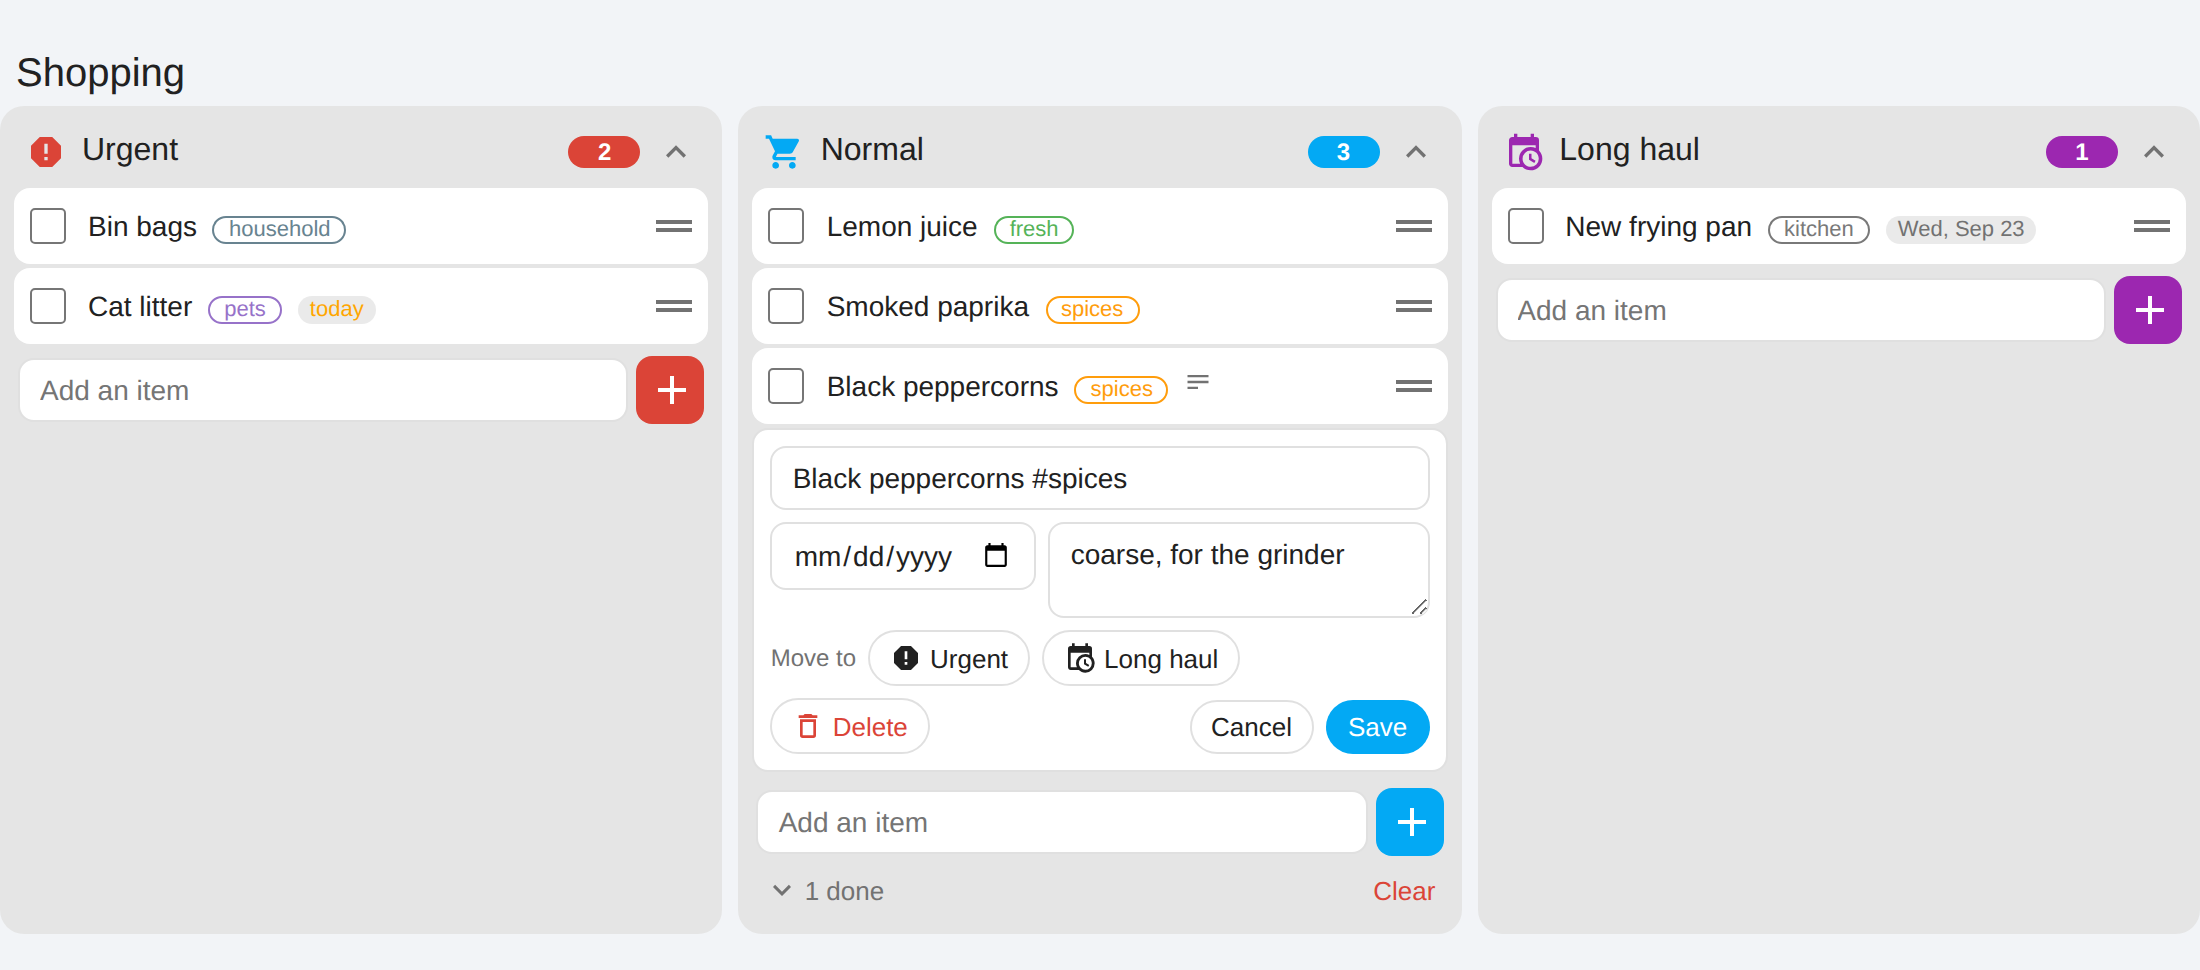
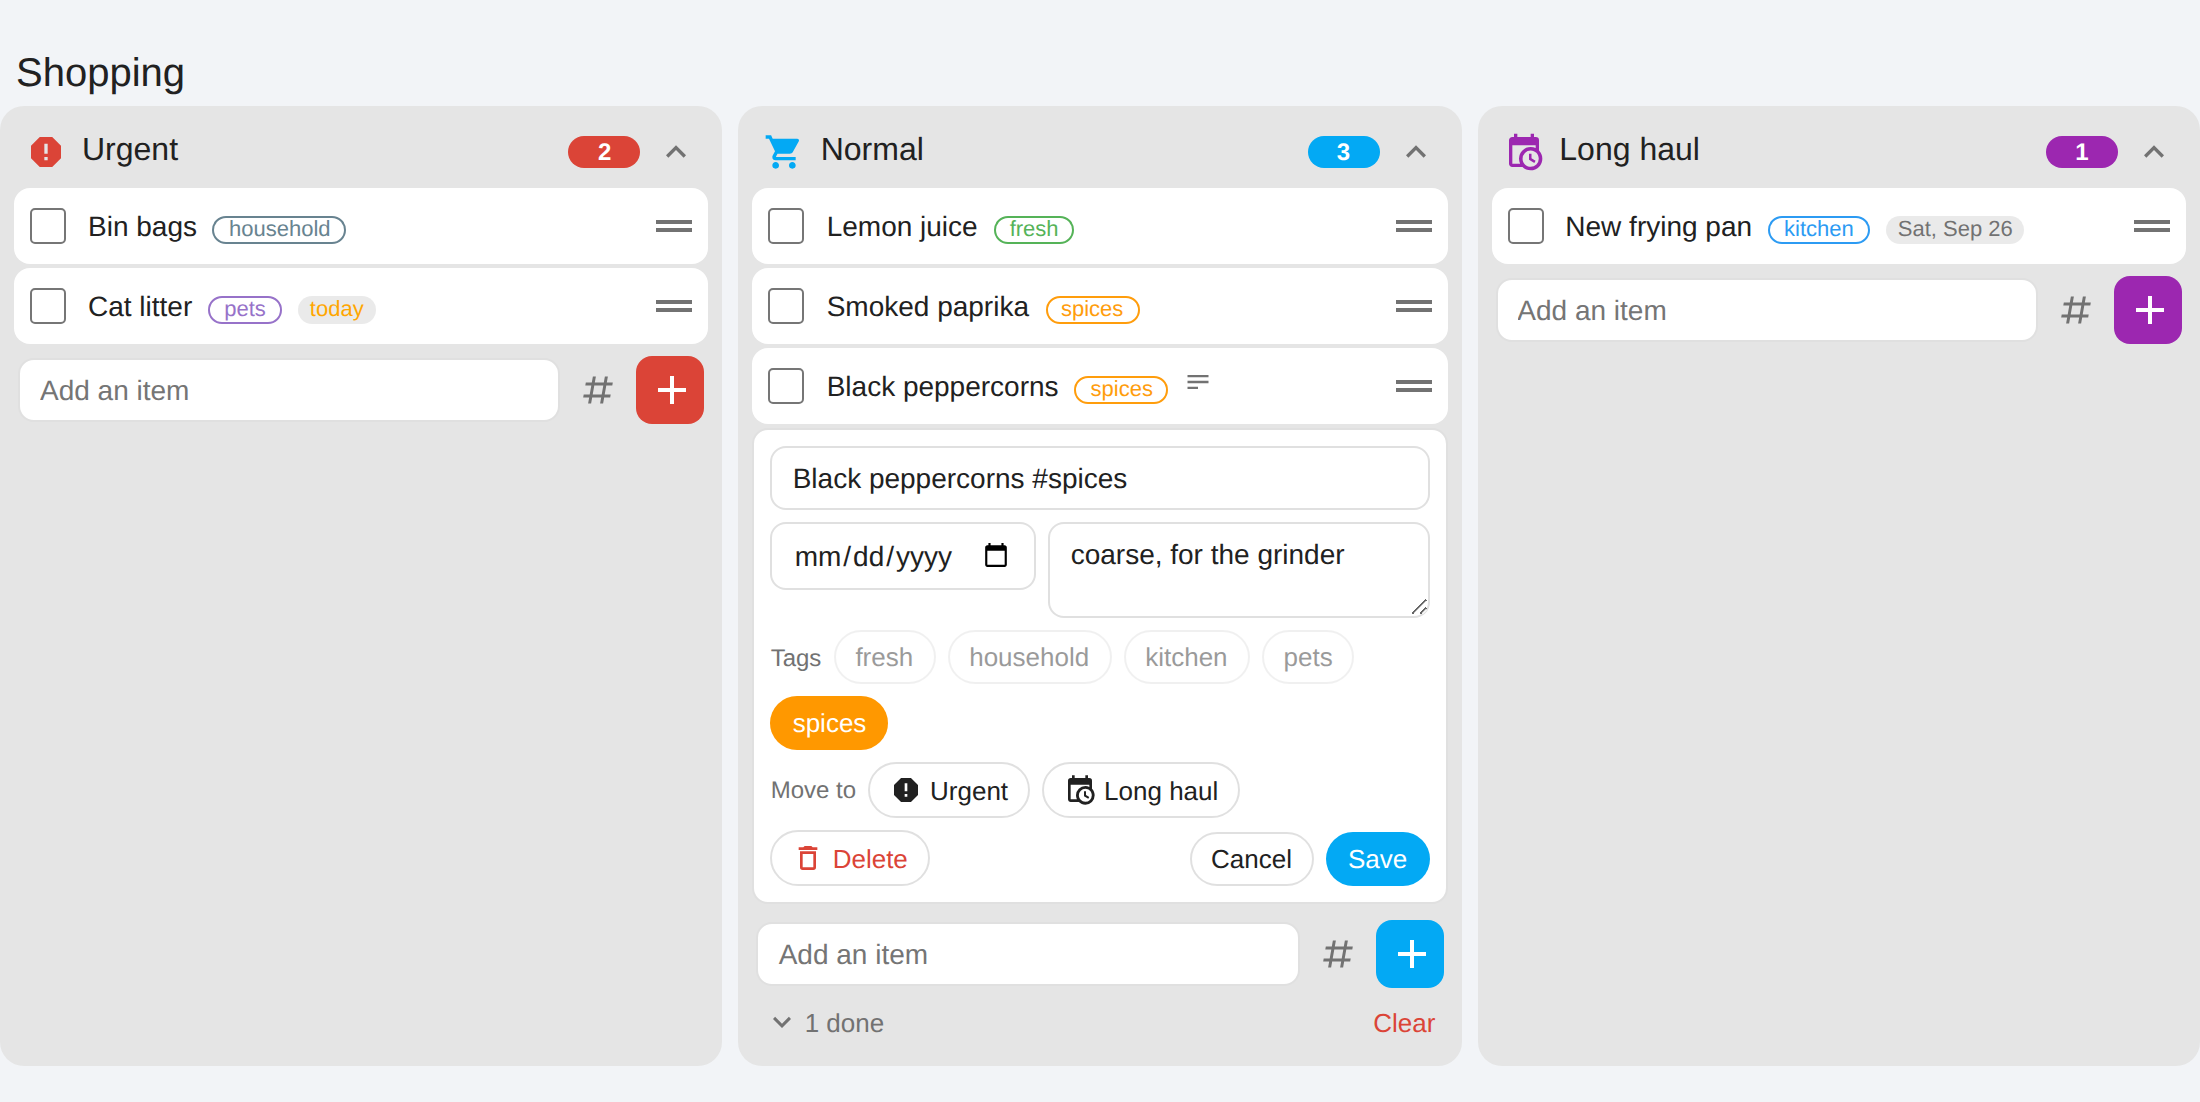
1.3.0 — tags
Release notes in CHANGELOG.md. Screenshots retaken, and the demo's icon set now
includes the ones the tag work added — the # button had been rendering as a blank gap
in every picture since it was written, which is exactly the sort of thing a screenshot
is for catching.

Adds docs/tags.png showing a tag being completed mid-type.

Changed region(s): [[0.0, 0.1237, 1.0, 0.5258], [0.34, 0.5567, 0.68, 0.9588], [0.0, 0.0309, 0.0927, 0.0928]]

diff --git a/demo/icons.js b/demo/icons.js
@@ -10,6 +10,10 @@ export const ICON_PATHS = {
   "mdi:text": "M21,6V8H3V6H21M3,18H12V16H3V18M3,13H21V11H3V13Z",
   "mdi:alert-circle-outline": "M11,15H13V17H11V15M11,7H13V13H11V7M12,2C6.47,2 2,6.5 2,12A10,10 0 0,0 12,22A10,10 0 0,0 22,12A10,10 0 0,0 12,2M12,20A8,8 0 0,1 4,12A8,8 0 0,1 12,4A8,8 0 0,1 20,12A8,8 0 0,1 12,20Z",
   "mdi:format-list-checks": "M3,5H9V11H3V5M5,7V9H7V7H5M11,7H21V9H11V7M11,15H21V17H11V15M5,20L1.5,16.5L2.91,15.09L5,17.17L9.59,12.59L11,14L5,20Z",
+  "mdi:pound": "M5.41,21L6.12,17H2.12L2.47,15H6.47L7.53,9H3.53L3.88,7H7.88L8.59,3H10.59L9.88,7H15.88L16.59,3H18.59L17.88,7H21.88L21.53,9H17.53L16.47,15H20.47L20.12,17H16.12L15.41,21H13.41L14.12,17H8.12L7.41,21H5.41M9.53,9L8.47,15H14.47L15.53,9H9.53Z",
+  "mdi:backup-restore": "M12,3A9,9 0 0,0 3,12H0L4,16L8,12H5A7,7 0 0,1 12,5A7,7 0 0,1 19,12A7,7 0 0,1 12,19C10.5,19 9.09,18.5 7.94,17.7L6.5,19.14C8.04,20.3 9.94,21 12,21A9,9 0 0,0 21,12A9,9 0 0,0 12,3M14,12A2,2 0 0,0 12,10A2,2 0 0,0 10,12A2,2 0 0,0 12,14A2,2 0 0,0 14,12Z",
+  "mdi:arrow-up": "M13,20H11V8L5.5,13.5L4.08,12.08L12,4.16L19.92,12.08L18.5,13.5L13,8V20Z",
+  "mdi:arrow-down": "M11,4H13V16L18.5,10.5L19.92,11.92L12,19.84L4.08,11.92L5.5,10.5L11,16V4Z",
   "mdi:alert-octagon": "M13 13H11V7H13M11 15H13V17H11M15.73 3H8.27L3 8.27V15.73L8.27 21H15.73L21 15.73V8.27L15.73 3Z",
   "mdi:cart": "M17,18C15.89,18 15,18.89 15,20A2,2 0 0,0 17,22A2,2 0 0,0 19,20C19,18.89 18.1,18 17,18M1,2V4H3L6.6,11.59L5.24,14.04C5.09,14.32 5,14.65 5,15A2,2 0 0,0 7,17H19V15H7.42A0.25,0.25 0 0,1 7.17,14.75C7.17,14.7 7.18,14.66 7.2,14.63L8.1,13H15.55C16.3,13 16.96,12.58 17.3,11.97L20.88,5.5C20.95,5.34 21,5.17 21,5A1,1 0 0,0 20,4H5.21L4.27,2M7,18C5.89,18 5,18.89 5,20A2,2 0 0,0 7,22A2,2 0 0,0 9,20C9,18.89 8.1,18 7,18Z",
   "mdi:calendar-clock": "M15,13H16.5V15.82L18.94,17.23L18.19,18.53L15,16.69V13M19,8H5V19H9.67C9.24,18.09 9,17.07 9,16A7,7 0 0,1 16,9C17.07,9 18.09,9.24 19,9.67V8M5,21C3.89,21 3,20.1 3,19V5C3,3.89 3.89,3 5,3H6V1H8V3H16V1H18V3H19A2,2 0 0,1 21,5V11.1C22.24,12.36 23,14.09 23,16A7,7 0 0,1 16,23C14.09,23 12.36,22.24 11.1,21H5M16,11.15A4.85,4.85 0 0,0 11.15,16C11.15,18.68 13.32,20.85 16,20.85A4.85,4.85 0 0,0 20.85,16C20.85,13.32 18.68,11.15 16,11.15Z",

diff --git a/todo-kanban-card.js b/todo-kanban-card.js
@@ -1,4 +1,4 @@
-/* todo-kanban-card 1.3.0-beta.8 — https://github.com/DennisdeBest/HaTodoKanbanCard
+/* todo-kanban-card 1.3.0 — https://github.com/DennisdeBest/HaTodoKanbanCard
  *
  * BUILT FILE — do not edit. The source is in src/; run `npm run build`.
  * MIT licensed. Bundled from src/ so that HACS, which installs exactly one file,
@@ -1422,7 +1422,7 @@ var TodoKanbanCardEditor = class extends HTMLElement {
 };
 
 // src/version.js
-var VERSION = "1.3.0-beta.8";
+var VERSION = "1.3.0";
 
 // src/index.js
 if (!customElements.get("todo-kanban-card-editor")) {

diff --git a/src/version.js b/src/version.js
@@ -1,2 +1,2 @@
 // The single place the version is written. scripts/build.mjs reads it too.
-export const VERSION = "1.3.0-beta.8";
+export const VERSION = "1.3.0";

diff --git a/CHANGELOG.md b/CHANGELOG.md
@@ -2,53 +2,44 @@
 
 ## 1.3.0
 
+**Tags.** Write one into an item — `Milk #dairy` — and the card shows *Milk* with a
+`dairy` chip beside it.
+
+- **Off by default.** `enable_tags: true` switches them on, per card or per lane. A `#`
+  in an item may well be there for another reason — `Call #12 plumber` — and a card
+  update should not quietly start eating it.
+- **Tags live in the item's own text**, because Home Assistant's to-do items have four
+  fields — summary, status, due, description — and no notion of a tag. Keeping them in
+  the summary means they survive editing from the companion app or the core to-do card,
+  they are visible to anyone not using this card, and uninstalling it leaves
+  `Milk #dairy` rather than stray metadata.
+- **Tags can contain spaces**, in quotes after the hash: `Flour #"weekend baking"`.
+  Unquoted they would read back as several one-word tags.
+- **You need not type them in full.** Typing `#dai` narrows a suggestion row to what
+  matches; click one or press Tab and the word completes, keeping whatever followed it
+  on the line. Enter is deliberately untouched: it adds the item, and turning that into
+  "accept the completion" would be a nasty surprise halfway through a shopping list.
+  The `#` button beside the box lists every tag in use for browsing rather than typing,
+  and the same chips appear in an item's editor, lit for the tags it already carries.
+  Neither takes focus, so a phone keyboard stays open throughout.
 - **Every tag gets a colour, whether or not you chose one.** A tag's preferred colour
   comes from a hash of its name, so it is the same on every device and after every
   reload; where two tags want the same one, or a configured tag has taken it, the next
-  free colour is used instead. So a board of tags arrives looking varied without anyone
-  choosing anything.
-- **The editor lists every tag in play**, not just the ones already given a colour — a
-  tag invented while adding a task appears there to be recoloured, marked *auto* until
-  you pick something. It watches the lists, so a tag typed while the dialog is open turns
-  up without reopening it.
-- **The tag chips in an item's editor wear the tag's own colour** — filled when the tag
-  is on, faded when it is off — rather than the lane's accent, so the row shows what the
-  tags will actually look like.
-- **Editing an item shows on the item as you go.** Toggling a tag or typing a name is
-  reflected on the row straight away instead of only after saving, and cancelling puts
-  it back.
-- **Tags can contain spaces**, written in quotes after the hash: `Flour #"weekend
-  baking"`. Unquoted they would read back as several one-word tags.
+  free colour is used instead. Past twelve tags it reuses them rather than running out.
+- **The editor lists every tag in play**, not only those already given a colour — a tag
+  invented while adding a task appears there to be recoloured, marked *auto* until you
+  pick something. It watches the lists, so a tag typed while the dialog is open turns up
+  without reopening it.
+
+Two things that are not about tags:
+
+- **Editing an item shows on the item as you go.** Toggling a chip or typing a name is
+  reflected on the row straight away instead of only once saved, and cancelling puts it
+  back.
 - **The source is split into modules under `src/`,** and `npm run build` bundles them
   into the single file HACS installs. That file is still committed, still unminified and
   still readable — the single file is forced by HACS, which downloads exactly one — but
   it is no longer the thing you edit.
-- **Tags are off by default.** `enable_tags: true` switches them on, per card or per
-  lane. A `#` in an item may well be there for another reason, and a card update should
-  not quietly start eating it.
-- **Tags.** Write one into an item — `Milk #dairy` — and the card shows *Milk* with a
-  `dairy` chip beside it. Colour them with a `tags:` map; any tag you have not coloured
-  still shows, in a neutral chip, so tagging something never means visiting the editor
-  first. `hide_tags: true` turns the parsing off, on the card or one lane.
-
-  Tags live in the item's summary rather than a field of their own because Home
-  Assistant's to-do items do not have one — the fields are summary, status, due and
-  description, and nothing else. Keeping them in the summary means they survive editing
-  from the companion app or the core to-do card, they are visible to anyone not using
-  this card, and uninstalling it leaves `Milk #dairy` rather than stray metadata.
-- **Tags complete as you type.** `#dai` narrows the suggestions to what matches; click
-  one or press Tab for the first, and the word completes. Enter is deliberately left
-  alone — it adds the item, and turning that into "accept a completion" would be a nasty
-  surprise mid-list.
-- **Or pick one without typing.** The `#` button beside the add box lists every
-  tag already in use; clicking one drops it into what you are typing. The same chips are
-  in an item's editor, lit for the tags it already has, so one tap adds or removes a tag.
-  The card takes the list from the lanes it already subscribes to, so suggestions cost no
-  extra round trip. Neither the button nor the chips take focus, so a phone keyboard
-  stays open throughout.
-- **The visual editor suggests tags you have already used** when giving them colours. It
-  reads the configured lists and offers what it finds, while still accepting a tag that
-  does not exist yet.
 
 ## 1.2.1
 

diff --git a/README.md b/README.md
@@ -32,7 +32,7 @@ a row — to another position, or to another lane:
 - **Fold a lane** by clicking its header. A lane with nothing left in it starts folded,
   which keeps a five-lane board readable.
 - **Tags**, written straight into the item: `Milk #dairy` shows as *Milk* with a `dairy`
-  chip. Colour them if you like; uncoloured tags still show.
+  chip. Every tag gets a colour, chosen for it or by it.
 - **Live**: one `todo/item/subscribe` per lane, so the board follows changes from the
   companion app, another tablet or an automation without a refresh.
 
@@ -150,6 +150,8 @@ editor first — what is there is for overriding what it picked.
 
 The editor lists **every tag in play**, including ones you have only ever typed into an
 item, each marked *auto* until you choose a colour for it.
+
+![Completing a tag while typing](https://raw.githubusercontent.com/DennisdeBest/HaTodoKanbanCard/master/docs/tags.png)
 
 **You do not have to type them in full, either.** Start typing `#dai` and the box
 suggests matching tags — click one, or press <kbd>Tab</kbd> for the first, and the word
@@ -341,10 +343,11 @@ looking fine.
 
 ## Not there yet
 
-- The visual editor covers the lists, their names, icons and colours, and the card-wide
-  options — but not the per-list overrides. Those stay in YAML.
+- The visual editor covers the lists, their names, icons and colours, the tag colours
+  and the card-wide options — but not the per-list overrides. Those stay in YAML.
 - No per-item due **time**, only dates.
-- No filtering or sorting; lanes show the list in its own order.
+- No filtering or grouping by tag. Tags are shown and edited, not yet used to narrow the
+  board down.
 - No horizontal autoscroll while dragging. Lanes wrap rather than overflow, so there is
   usually nothing to scroll sideways to.
 
